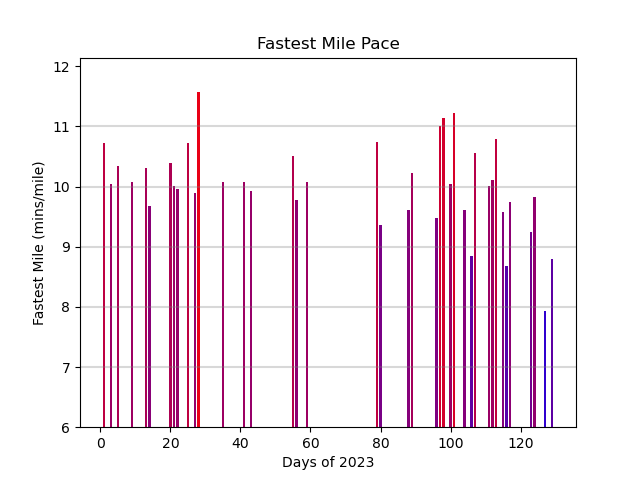
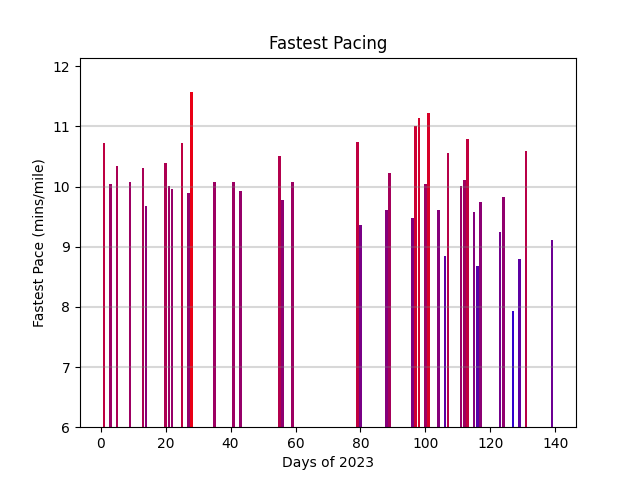
Change structure to using a dataframe

diff --git a/progress.py b/progress.py
@@ -1,12 +1,9 @@
 import matplotlib.pyplot as plt
 import numpy as np
+import pandas as pd
 
-days = []
-miles = []
-total_miles_lst = []
-total_miles = 0
 
-pacing = []
+df = pd.DataFrame({'day': [], 'miles': [], 'times': [], 'average': [], 'fastest': [], 'slowest': []})
 
 # parse file
 
@@ -15,12 +12,6 @@ with open('progress.txt') as f:
         spl = l.split()
         day = int(spl[0])
         dist = int(spl[1])
-
-        days.append(day)
-        miles.append(dist)
-
-        total_miles += dist
-        total_miles_lst.append(total_miles)
 
         day_pacing = []
         for i in range(dist):
@@ -34,9 +25,25 @@ with open('progress.txt') as f:
                 day_pacing.append(pace_in_seconds)
             except:
                 pass
-        pacing.append(day_pacing)
+        
+        while(day - 1 != len(df.index)):
+            df.loc[len(df.index)] = np.array([len(df.index)+1, 0, [], np.nan, np.nan, np.nan],dtype=object)
+            # df = df.append({'day':len(df.index)+1, 'miles':0}, ignore_index=True) 
+        
+        # put this when day - 1 == index
+        df.loc[len(df.index)] = np.array([day, dist, day_pacing, np.mean(day_pacing), np.min(day_pacing), np.max(day_pacing)],dtype=object)
 
-maximum = max(total_miles_lst+days)
+df[["day", "miles", "average", "fastest", "slowest"]] = df[["day", "miles", "average", "fastest", "slowest"]].apply(pd.to_numeric)
+
+df['cumulative_miles'] = df['miles'].cumsum()
+
+df['difference'] = df['day'] - df['cumulative_miles']
+
+for label in ['average', 'fastest', 'slowest']:
+    df[label+'_mins'] = df[label]/60.0
+
+
+maximum = max(np.max(df['day']), np.max(df['cumulative_miles']))
 
 # Plot Cumulative Miles
 
@@ -44,11 +51,7 @@ plot_cumulative = True
 
 if plot_cumulative:
     plt.plot((1,maximum),(1, maximum), color='b', label='Goal')
-    for i in range(0, len(total_miles_lst)-1):
-        # plt.plot((days[i],days[i+1]), (total_miles_lst[i],total_miles_lst[i+1]), linestyle='dashed',color='g')
-        plt.plot((days[i],days[i+1]), (total_miles_lst[i],total_miles_lst[i]), linestyle='dashed',color='gray')
-        plt.plot((days[i+1],days[i+1]), (total_miles_lst[i],total_miles_lst[i+1]), linestyle='dashed',color='gray')
-    plt.scatter(days, total_miles_lst, color='k', label='Cumulative Miles')
+    plt.plot(df['day'], df['cumulative_miles'], color='k', label='Cumulative Miles')
     plt.xlabel('Days of 2023')
     plt.ylabel('# Miles')
     plt.legend()
@@ -79,11 +82,9 @@ if plot_difference:
     plt.axhline(10, color='gray', alpha=0.2)
     plt.axhline(20, color='gray', alpha=0.2)
     plt.axhline(30, color='gray', alpha=0.2)
-    for i in range(0, len(total_miles_lst)):
-        diff.append(days[i] - total_miles_lst[i])
-    plt.bar(days, diff, color=colormap_difference(diff))
-    plt.axhline(0, color='b', label='Goal\nWorst: '+str(max(diff))+' days behind\nBest: '
-                                                  +str(abs(min(diff)))+' days ahead')
+    plt.bar(df['day'], df['difference'], color=colormap_difference(df['difference']))
+    plt.axhline(0, color='b', label='Goal\nWorst: '+str(max(df['difference']))+' days behind\nBest: '
+                                                   +str(abs(min(df['difference'])))+' days ahead')
     plt.xlabel('Days of 2023')
     plt.ylabel('# Miles Away from Goal')
     plt.legend(loc='upper left')
@@ -93,33 +94,9 @@ if plot_difference:
 
 # Plot Average Pace
 
-def colorcode_pacing(day, pace):
-    color = None
-    if pace > 11.5:
-        color='red'
-    elif pace > 11:
-        color='orange'
-    elif pace > 10.5:
-        color='gold'
-    elif pace > 10:
-        color='lime'
-    elif pace > 9.5:
-        color='green'
-    else:
-        color='blue'
-    plt.axhline(8,  color='gray', alpha=0.01)
-    plt.axhline(9,  color='gray', alpha=0.01)
-    plt.axhline(10, color='gray', alpha=0.01)
-    plt.axhline(11, color='gray', alpha=0.01)
-    plt.plot((day,day), (0,pace), color=color, alpha=0.75)
-    plt.scatter(day, pace, color=color, alpha=0.75)
-    return color
-
 def pacing_lines():
     for i in range(7, 12):
         plt.axhline(i,  color='gray', alpha=0.3)
-
-
 
 def colormap(pace):
     # range from (1,0,0) to (0,1,0)
@@ -135,44 +112,16 @@ def colormap(pace):
     return [(red[i], 0, blue[i]) for i in range(len(scaled))]
 
 
-
-
 plot_pacing = True
-avg_pace = []
-avg_pace_mins = []
-fastest_pace = []
-fastest_pace_mins = []
+
 if plot_pacing:
-    for i in range(0, len(days)):
-        avg_pace.append(np.mean(pacing[i]))
-        avg_pace_mins.append(avg_pace[i]/60.0)
-        fastest_pace.append(min(pacing[i]))
-        fastest_pace_mins.append(fastest_pace[i]/60.0)
-        # mins = int(avg_pace[i]//60)
-        # secs = avg_pace[i] - mins*60
-        # print(f"Day {days[i]}: {avg_pace[i]} {mins}:{secs}")
 
-
-    # for i in range(len(avg_pace_mins)):
-    #     c = colorcode_pacing(days[i], avg_pace_mins[i])
-    # plt.scatter(days, avg_pace_mins, color='k')
-    pacing_lines()
-    plt.bar(days, avg_pace_mins, color=colormap(avg_pace_mins))
-    plt.ylim(bottom=6.0)
-    plt.xlabel('Days of 2023')
-    plt.ylabel('Avg Pace (mins/mile)')
-    plt.title("Average Pacing")
-    plt.savefig("average-pacing")
-    plt.close()
-
-    # for i in range(len(fastest_pace_mins)):
-    #     c = colorcode_pacing(days[i], fastest_pace_mins[i])
-    # plt.scatter(days, fastest_pace_mins, c=fastest_pace_mins, cmap='rainbow')
-    pacing_lines()
-    plt.bar(days, fastest_pace_mins, color=colormap(fastest_pace_mins))
-    plt.ylim(bottom=6.0)
-    plt.xlabel('Days of 2023')
-    plt.ylabel('Fastest Mile (mins/mile)')
-    plt.title("Fastest Mile Pace")
-    plt.savefig("fastest-pacing")
-    plt.close()
+    for label in ['average', 'fastest', 'slowest']:
+        pacing_lines()
+        plt.bar(df['day'], df[label+'_mins'], color=colormap(df[label+'_mins']))
+        plt.ylim(bottom=6.0)
+        plt.xlabel('Days of 2023')
+        plt.ylabel(label.capitalize()+' Pace (mins/mile)')
+        plt.title(label.capitalize()+" Pacing")
+        plt.savefig(label+"-pacing")
+        plt.close()

diff --git a/README.md b/README.md
@@ -9,3 +9,5 @@ My goal is to run 365 miles in 2023 (an average of one per day). This is a fun w
 ![Average Pace](average-pacing.png)
 
 ![Fastest Pace](fastest-pacing.png)
+
+![Slowest Pace](slowest-pacing.png)
